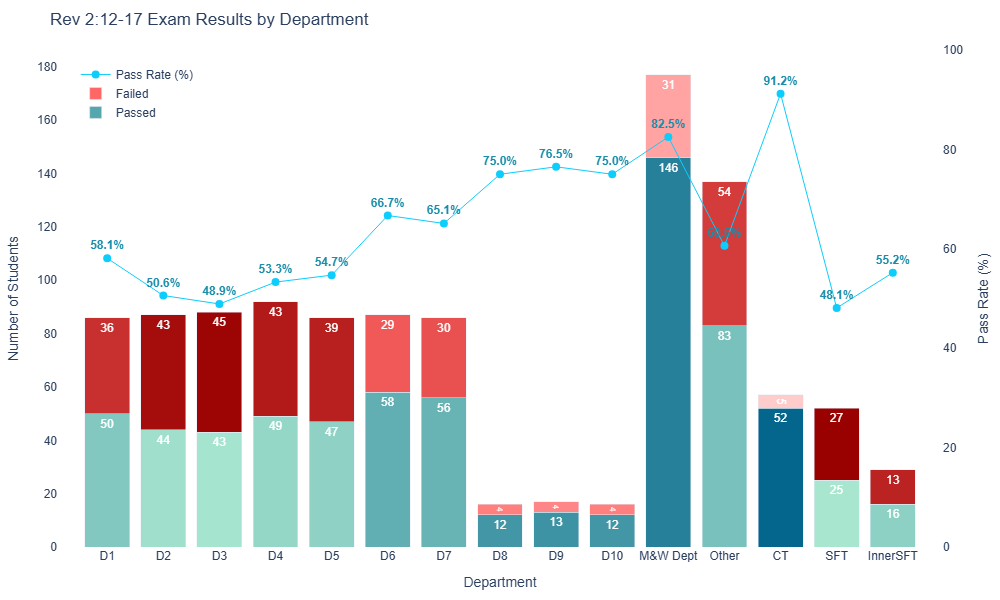
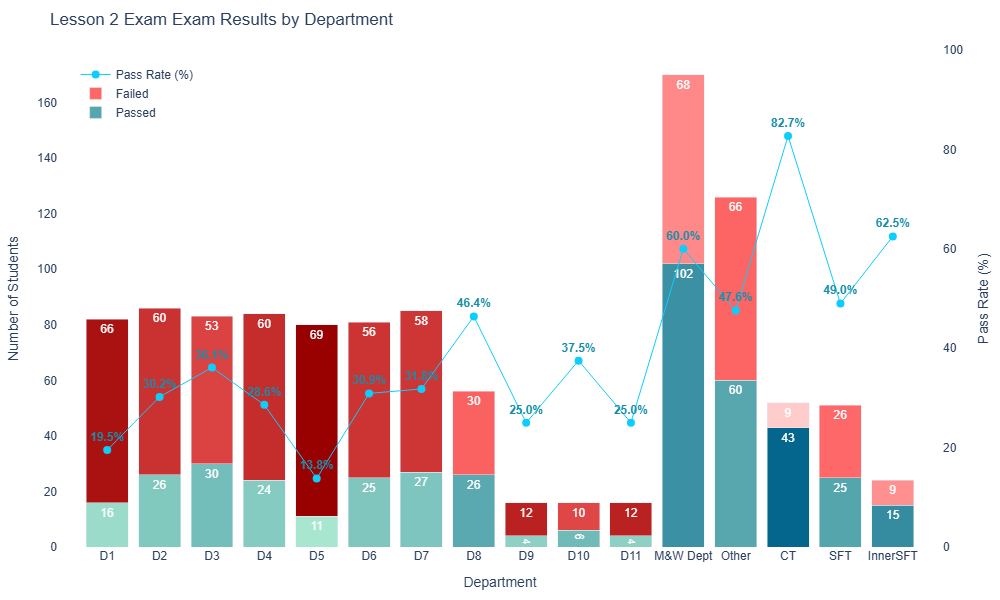
Commit

diff --git a/ddd/apis/Telegram/Exam/responses/hsp.py b/ddd/apis/Telegram/Exam/responses/hsp.py
@@ -1,0 +1,296 @@
+from collections import defaultdict
+import os
+import re
+import openpyxl
+import datetime
+import tempfile
+from django.db import connection
+from asgiref.sync import async_to_sync, sync_to_async
+import plotly.graph_objects as go
+import pandas as pd
+
+
+async def get_scores(excel):
+    
+    exam_rec = await sync_to_async(get_db_exam)()
+    recs = []
+    
+    if exam_rec and 'ID' in exam_rec:
+        exam_id = exam_rec['ID'] 
+        recs = await sync_to_async(get_db_recs)(exam_id)
+        print(f"Found exam ID: {exam_id}. Fetched {len(recs)} result records.")
+    else:
+        print("No eligible exam record found in HSP ExamListTable.")
+
+    excel_out = await sync_to_async(get_excel)(exam_rec, recs)
+    score_text = await sync_to_async(get_text)(recs)
+    chart_out = await sync_to_async(get_chart)(exam_rec)
+    excel_out.append(score_text)
+    excel_out.append(chart_out)
+    
+    return excel_out
+
+def get_db_exam():
+    with connection.cursor() as cursor:
+        cursor.execute("SELECT * FROM HSPExamListTable WHERE DATEADD(Week,1 , ExamDate) > GETDATE()")
+        # Get column names immediately after execution
+        columns = [column[0] for column in cursor.description]
+
+        # Use fetchone() for the single expected record
+        record = cursor.fetchone()
+
+        if record:
+            # Create a dictionary by zipping columns and the record values
+            return dict(zip(columns, record))
+        else:
+            # Return None if no record is found
+            return None
+        
+def get_db_recs(exam_id):
+    with connection.cursor() as cursor:
+        sql = "SELECT * FROM HSPExamNotPassedFunction(%s) Order By ODID, GID, Pos, ID"
+        cursor.execute(sql, [exam_id])
+        recs = [dict(zip([column[0] for column in cursor.description], record)) for record in cursor.fetchall()]
+    return recs
+
+
+def get_text(recs):
+    if recs:
+        grouped = defaultdict(list)
+
+        # Group by Dept
+        for rec in recs:
+            dept = rec.get("Dept", "Unknown")
+            grouped[dept].append(rec)
+            
+        output_lines = []
+        for dept, items in grouped.items():
+            num = len(items)
+            output_lines.append(f"--- Department: {dept} ({num}) ---")
+            for r in items:
+                grp = r.get("Grp") or "Unknown"
+                name = r.get("Name") or "Unknown"
+                eid = r.get("ID") or ""
+                score = r.get("Score") or "0"
+                output_lines.append(f"{grp} {name} ({eid}) - {score}")
+            output_lines.append("")  # Add blank line between departments
+            
+
+        formatted_text = "\n".join(output_lines)
+        return formatted_text
+    else:
+        return "No records found."
+    
+
+
+def get_excel(exam_rec, recs):
+
+    wb = openpyxl.load_workbook('apis/Telegram/Exam/assets/Exam_Template.xlsx')
+    ws = wb.active # Or specify the sheet name
+    
+    exam_name = exam_rec.get('ExamName')
+    
+    exam_title = f"AUS church(Melbourne) HSP Exam ({exam_name}) Result"
+    
+    ws["A1"] = exam_title
+    
+    with connection.cursor() as cursor:
+        sql = "SELECT * FROM HSPExamResultsTable WHERE ExamID = %s"
+        cursor.execute(sql, [exam_rec.get('ID')])
+        erecs = [dict(zip([column[0] for column in cursor.description], record)) for record in cursor.fetchall()]
+    
+    rec_map = {
+        str(rec["EVID"]).strip(): rec
+        for rec in erecs
+        if rec.get("EVID") is not None
+    }
+    last_row = ws.max_row
+
+    for row in range(6, last_row + 1):
+        student_id = ws.cell(row=row, column=7).value  # Column F = 6th col
+        if not student_id:
+            continue
+
+        student_id = str(student_id).strip()
+        if student_id in rec_map:
+            record = rec_map[student_id]
+            score = record.get("Score")
+            reason = record.get("ReasonNotDone")
+
+            # Example: write score to column H (8th col) and reason to I (9th col)
+            ws.cell(row=row, column=11).value = score
+            ws.cell(row=row, column=12).value = reason
+        else:
+            ws.cell(row=row, column=11).value = "0"
+            ws.cell(row=row, column=12).value = "No submission"
+            
+    
+    pattern = r"[:.,]"
+    replacement = "_"
+
+    cleaned_text = re.sub(pattern, replacement, exam_name)
+    
+    # Get the current year
+    current_year = datetime.datetime.now().year # Result: 2025
+    start_year = 1984
+    scj_yr = current_year - start_year + 1
+
+    filename = f"HSP Exam {cleaned_text} Score_ReportEN.xlsx"
+    
+    tmp = tempfile.NamedTemporaryFile(delete=False, suffix=".xlsx")
+    wb.save(tmp.name)
+
+    return [tmp.name, exam_title, filename]
+
+
+def get_chart(exam_rec):
+    exam_id = exam_rec['ID'] 
+    exam_name = exam_rec['ExamName'] 
+    with connection.cursor() as cursor:
+        sql = "SELECT * FROM HSPExamPassRateFunction(%s) Order By ODID"
+        cursor.execute(sql, [exam_id])
+        recs = [dict(zip([column[0] for column in cursor.description], record)) for record in cursor.fetchall()]
+
+    df = pd.DataFrame(recs)
+
+    fig = go.Figure()
+
+    # Stacked Bars
+    fig.add_trace(go.Bar(
+        x=df["Dept"],
+        y=df["Passed"],
+        name="Passed",
+        marker=dict(
+            color=df["PassRate"],          # numeric values
+            colorscale=[          # ✅ custom gradient
+                [0, "#A8E6CF"],   # light green
+                [1, "#05668D"]    # dark teal
+            ],       # built-in gradient
+            showscale=False              # hide color bar if you don’t want it
+        ),
+        text=df["Passed"],
+        textposition="inside",
+        textfont=dict(color="white", size=12)
+    ))
+
+    # Failed bars with gradient based on value
+    fig.add_trace(go.Bar(
+        x=df["Dept"],
+        y=df["Failed"],
+        name="Failed",
+        marker=dict(
+            color=(100 - df["PassRate"]),
+            colorscale=[
+                [0.0, "#FFCCCC"],   # light red
+                [0.5, "#FF6666"],   # medium red
+                [1.0, "#990000"]    # dark red
+            ],
+            showscale=False
+        ),
+        text=df["Failed"],
+        textposition="inside",
+        textfont=dict(color="white", size=12)
+    ))
+
+    # --- Pass Rate Line ---
+    fig.add_trace(go.Scatter(
+        x=df["Dept"],
+        y=df["PassRate"],
+        name="Pass Rate (%)",
+        yaxis="y2",
+        mode="lines+markers+text",
+        text=[f"{r:.1f}%" for r in df["PassRate"]],
+        textposition="top center",
+        textfont=dict(color="#1A8DAA", size=12, weight="bold", shadow=4),
+        line=dict(color="#0DCDFD", width=1),
+        marker=dict(size=8)
+    ))
+
+    # --- Add Total Labels above bars ---
+    # This shows Passed / Total above the stacked bar
+    # for i, row in df.iterrows():
+    #     fig.add_annotation(
+    #         x=row["Dept"],
+    #         y=row["Total"] + 2,  # a bit above the top bar
+    #         text=f"{int(row['Passed'])}/{int(row['Total'])}",
+    #         showarrow=False,
+    #         font=dict(color="black", size=13, family="Arial Black")
+    #     )
+
+    # --- Layout ---
+    fig.update_layout(
+        title=f"{exam_name} Exam Results by Department",
+        xaxis=dict(title="Department"),
+        yaxis=dict(title="Number of Students"),
+        yaxis2=dict(
+            title="Pass Rate (%)",
+            overlaying="y",
+            side="right",
+            range=[0, 100]
+        ),
+        barmode="stack",
+        legend=dict(x=0.02, y=0.98),
+        plot_bgcolor="white",
+        margin=dict(l=40, r=40, t=50, b=40),
+        font=dict(family="Arial", size=12)
+    )
+
+    # Save chart as PNG using Kaleido
+    chart_path = "apis/Telegram/Exam/assets/exam_summary_chart.png"
+    fig.write_image(chart_path, width=1000, height=600)
+
+    return chart_path
+    
+async def report_score(text):
+    exam_rec = await sync_to_async(get_db_exam)()
+    examid = exam_rec["ID"]
+    processed = []
+    lines = [line.strip() for line in text.splitlines() if line.strip()]
+    
+    extracted_data = []
+    response_arr = []
+    
+    for line in lines:
+        # ✅ Skip department header lines
+        if "---Department:" in line:
+            response_arr.append(f"<b>Score Report: <{line}/b>")
+        
+        # Match pattern: extract student name, EVID, and Score
+        # Example line: 🟢G21 Abel B500 (500) - 100
+        match = re.search(r'([A-Za-z]+)\s.*\((\d+)\)\s*-\s*(\d+)', line)
+        if match:
+            student_name = match.group(1)
+            EVID = int(match.group(2))
+            Score = int(match.group(3))
+            if Score > 0:
+                extracted_data.append((student_name, EVID, Score))
+    
+    if not extracted_data:
+        return
+    
+    # Build the reply
+    response_lines = []
+    processed = await sync_to_async(save_scores)(extracted_data, examid)
+    
+    response_lines = [f"✅ <b>{name}</b> (<b>{evid}</b>) — Score: <b>{score}</b>" for name, evid, score, _ in processed]
+    
+    response_arr.extend(response_lines)
+    response = "\n".join(response_arr)
+    return response
+    
+    
+def save_scores(data, examid):
+    reporter = "A006Z"
+    local_processed = []
+    for name, evid, score in data:
+        with connection.cursor() as cursor:
+            cursor.execute(
+                "EXEC spExamReportScore @ExamID=%s, @EVID=%s, @Score=%s, @Reporter=%s",
+                [examid, evid, score, reporter]
+            )
+            try:
+                result = [dict(zip([col[0] for col in cursor.description], rec)) for rec in cursor.fetchall()]
+            except Exception:
+                result = []
+        local_processed.append((name, evid, score, result))
+    return local_processed

diff --git a/ddd/apis/Telegram/Exam/main.py b/ddd/apis/Telegram/Exam/main.py
@@ -2,7 +2,7 @@ from dotenv import load_dotenv, find_dotenv
 import os
 load_dotenv(find_dotenv())
 
-from .responses import general as g, scheduled as s
+from .responses import general as g, scheduled as s, hsp as h
 import warnings
 import logging
 
@@ -80,6 +80,51 @@ async def get_excel(update: Update, context: ContextTypes.DEFAULT_TYPE) -> None:
             parse_mode='HTML'
         )
 
+async def get_hsp_excel(update: Update, context: ContextTypes.DEFAULT_TYPE) -> None:
+    file_path, exam_title, file_name, score_txt, chart_path = await h.get_scores('Yes')
+
+    # Send the exam title and progress message last
+    await update.message.reply_text(
+        f"<b>{exam_title}</b>\nPreparing your report...",
+        parse_mode='HTML'
+    )
+
+    # Send confirmation message
+    score_parts = score_txt.split('\n\n')
+
+    for part in score_parts:
+        part = part.strip()
+        if not part:
+            continue
+
+        # If a chunk is too long, split further by character length
+        while len(part) > 4000:
+            await update.message.reply_text(part[:4000], parse_mode='HTML')
+            part = part[4000:]
+
+        await update.message.reply_text(part, parse_mode='HTML')
+    # Send confirmation message
+    await update.message.reply_text(
+        f"<b>{exam_title}</b>\nPreparing your report...",
+        parse_mode='HTML'
+    )
+    
+    
+    await update.message.reply_photo(
+        photo=open(chart_path, "rb"),
+        caption=f"<b>{exam_title}</b>\n📊 Exam Summary by Department",
+        parse_mode='HTML'
+    )
+
+    # Send the Excel file with custom download name
+    with open(file_path, "rb") as f:
+        await update.message.reply_document(
+            document=f,
+            filename=file_name,  # 👈 this sets the visible filename
+            caption=f"<b>{exam_title}</b>",
+            parse_mode='HTML'
+        )
+
 
 async def handle_message(update: Update, context: ContextTypes.DEFAULT_TYPE) -> None:
     warnings.filterwarnings('ignore')
@@ -100,6 +145,7 @@ def main():
     # on different commands - answer in Telegram
     application.add_handler(CommandHandler("start", start))
     application.add_handler(CommandHandler("getexcel", get_excel))
+    application.add_handler(CommandHandler("gethspexcel", get_hsp_excel))
     application.add_handler(MessageHandler(filters.TEXT & ~filters.COMMAND, handle_message))
     # application.add_handler(CommandHandler("help", help_command))
 
